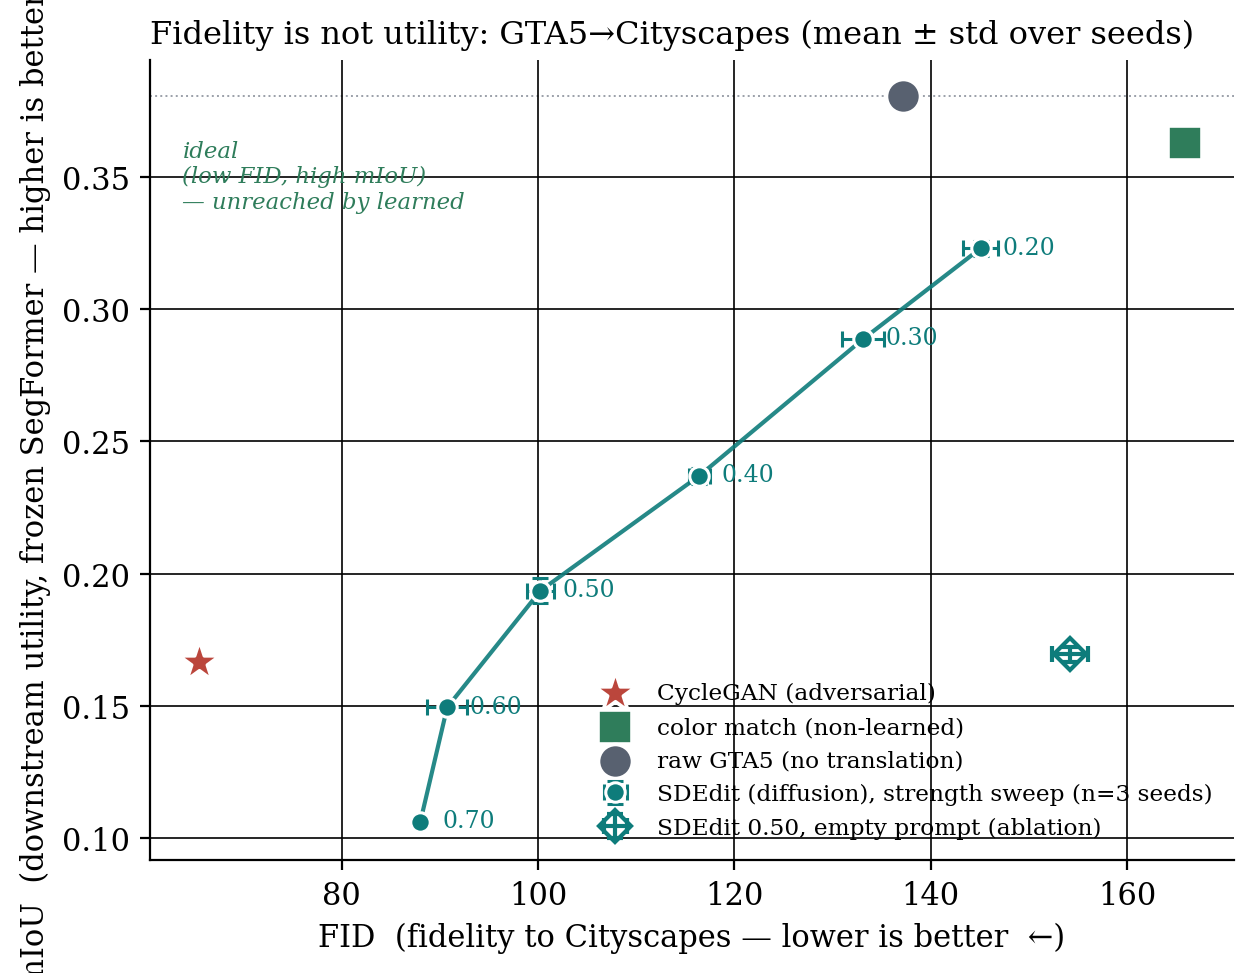
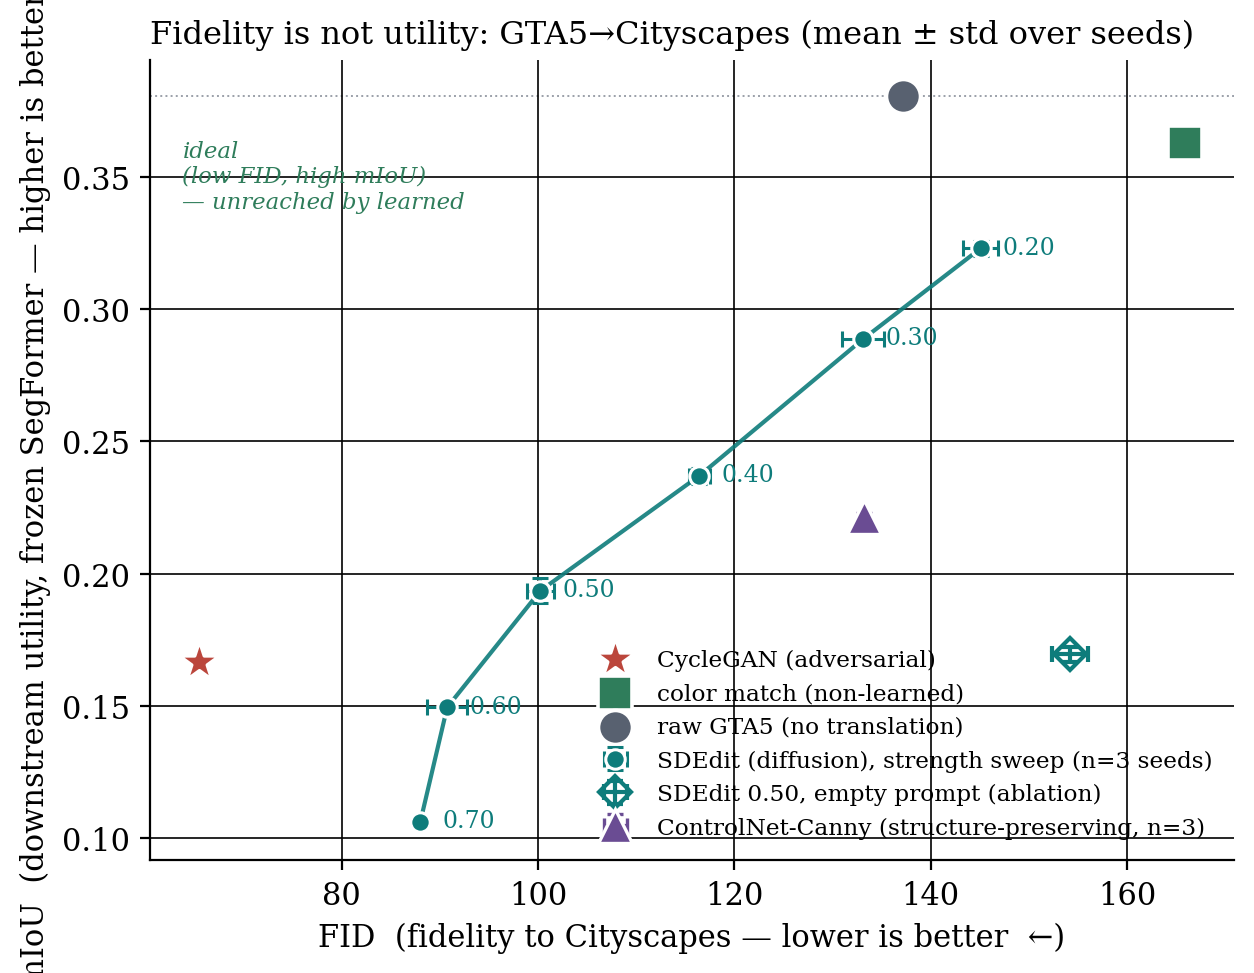
generality: add ControlNet-Canny structure-preserving baseline result (edge conditioning does NOT rescue utility — lands on/below the learned frontier); finalize paper, no TODOs remain

Changed region(s): [[0.4665, 0.6475, 0.9641, 0.8633], [0.6842, 0.5242, 0.7153, 0.555]]

diff --git a/journal_extension/generality/paper_draft.md b/journal_extension/generality/paper_draft.md
@@ -2,8 +2,8 @@
 
 **Target venue:** ICLR 2026 (deadline ~Sept 24) / NeurIPS D&B track.
 **Status:** working draft. The driving results are the publication-grade N=1000 / 3-seed run (NVIDIA A30,
-GPU eval); the medical results are final. The one remaining `[TODO-node]` item is an optional
-structure-preserving diffusion baseline. Do not treat this as camera-ready.
+GPU eval), including the structure-preserving (ControlNet-Canny) baseline; the medical results are final.
+No `[TODO-node]` items remain. Do not treat this as camera-ready.
 
 ---
 
@@ -97,6 +97,7 @@ identical evaluator + clean-fid (GPU) for all. SDEdit rows are mean ± std over 
 | SDEdit strength 0.70 | diffusion | 88.0 ± 0.4 | 0.106 ± 0.001 | −0.274 |
 | CycleGAN | learned-GAN | 65.5 | 0.167 | −0.214 |
 | SDEdit 0.50, empty prompt | diffusion (ablation) | 154.2 ± 1.9 | 0.170 ± 0.003 | −0.211 |
+| ControlNet-Canny (structure-preserving) | diffusion + edge cond. | 133.2 ± 0.3 | 0.221 ± 0.002 | −0.159 |
 
 **Findings.** (a) Learned translation (CycleGAN and every SDEdit strength) lowers FID relative to raw
 while collapsing mIoU by 15–72%; CycleGAN more than halves FID (137→65) at mIoU 0.167. (b) The
@@ -107,10 +108,14 @@ occupied only by raw/non-learned (Fig. `figures/frontier_seeds.pdf`). (d) **Empt
 no text prompt, FID is *worse* than raw (154.2 > 137.2) yet mIoU still collapses (0.170) — the utility
 loss is the diffusion img2img prior itself, not text guidance, and occurs even absent any fidelity gain.
 These are the publication-grade numbers (N=1000, 3 seeds, GPU eval on an NVIDIA A30); an earlier local
-N=200 run reproduced the same ordering on an independent machine.
-`[TODO-node]` one remaining optional add: a structure-preserving diffusion baseline (ControlNet-seg /
-plug-and-play), expected to sit near the non-learned point, to preempt the "why not condition on structure?"
-question.
+N=200 run reproduced the same ordering on an independent machine. (e) **Structure-preserving baseline.**
+Conditioning the diffusion generator on the source image's Canny edges (ControlNet-Canny) does *not*
+rescue utility: it lands on the learned frontier (FID 133.2, mIoU 0.221 ± 0.002) — in fact Pareto-dominated
+by SDEdit at equal FID (SDEdit 0.30: FID 133.1, mIoU 0.289) — nowhere near the ideal corner. Edge-level
+structure is not the task-relevant signal; only conditioning on the *segmentation map itself* (label-guided
+diffusion, e.g. Peng et al. ICCV 2023) recovers utility, and only by injecting the labels — precisely the
+non-distributional constraint our thesis says is required. This preempts "why not condition on structure?"
+empirically: generic structural conditioning is insufficient.
 
 ### 4.2 Medical: multi-site brain-tumor MRI
 
@@ -150,8 +155,9 @@ Non-learned transforms, lacking a learned prior, cannot introduce this failure.
   the fixed reference), and SDEdit points report mean ± std over 3 seeds (σ(mIoU) ≤ 0.005, σ(FID) ≤ 2.1),
   so the ordering is robust to both sample size and seed. A separate local N=200 run reproduces it.
 - Two medical evaluation protocols exist; headline uses the frozen independent one.
-- `[TODO-node]` a structure-preserving diffusion baseline (ControlNet/PnP) to preempt "why not condition
-  on structure?" — expected to support the thesis (explicit structure = non-distributional constraint).
+- The structure-preserving baseline uses edge (Canny) conditioning; a segmentation-map-conditioned variant
+  (label-guided diffusion) would recover utility only by injecting the labels, which concedes the thesis
+  rather than refuting it. We report the edge variant as the honest "generic structure" control.
 
 ## 7. Conclusion
 

diff --git a/journal_extension/generality/results_n1000/benchmark_seeds.md b/journal_extension/generality/results_n1000/benchmark_seeds.md
@@ -14,3 +14,4 @@ GTA5->Cityscapes, N per condition, frozen SegFormer-b4 + clean-fid; SDEdit over 
 | SDEdit 0.60 | learned-diffusion | 90.75 ± 2.01 | 0.1495 ± 0.0012 | 3 |
 | SDEdit 0.70 | learned-diffusion | 88.01 ± 0.37 | 0.1062 ± 0.0007 | 3 |
 | SDEdit 0.50 empty | learned-diffusion | 154.18 ± 1.85 | 0.1695 ± 0.0027 | 3 |
+| ControlNet-Canny (structure-preserving) | learned-diffusion+struct | 133.16 ± 0.30 | 0.2213 ± 0.0015 | 3 |
